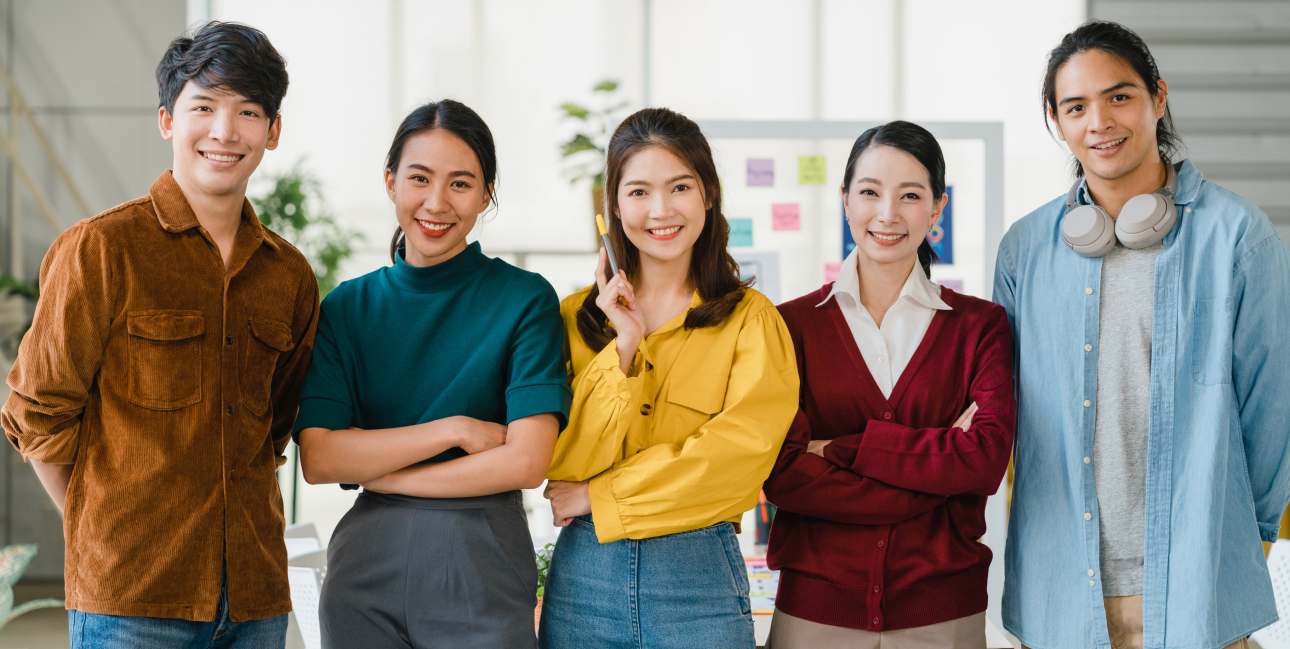
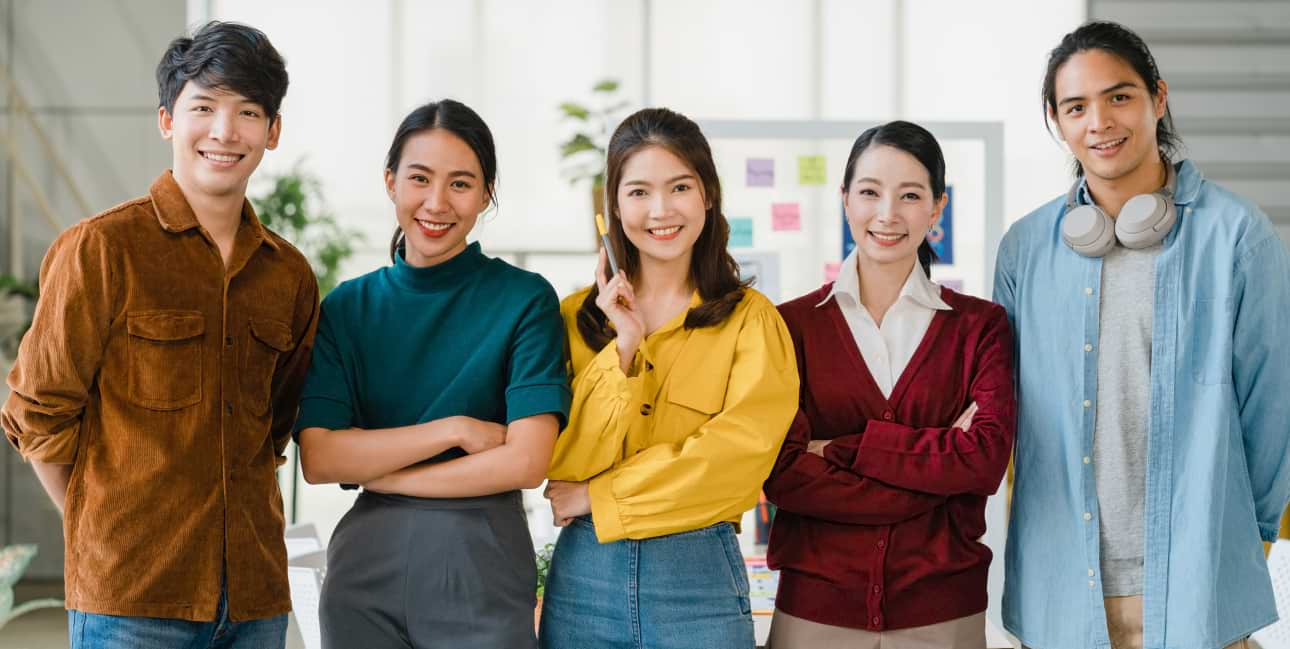
fix: optimize image

diff --git a/pages/index.html b/pages/index.html
@@ -101,14 +101,14 @@
                   <h6 class="item-service__subtitle">
                     Tempor incididunt ut labore et dolore magna aliqua.
                   </h6>
-                  <img src="../assets/images/floor.jpeg" alt="Floor" />
+                  <img src="../assets/images/floor.jpg" alt="Floor" />
                 </div>
                 <div class="services__item item-service _ibg">
                   <h4 class="item-service__title">Interior Design</h4>
                   <h6 class="item-service__subtitle">
                     Tempor incididunt ut labore et dolore magna aliqua.
                   </h6>
-                  <img src="../assets/images/interior.jpeg" alt="Interior" />
+                  <img src="../assets/images/interior.jpg" alt="Interior" />
                 </div>
                 <div class="services__item item-service _ibg">
                   <h4 class="item-service__title">Architecture Design</h4>
@@ -116,7 +116,7 @@
                     Tempor incididunt ut labore et dolore magna aliqua.
                   </h6>
                   <img
-                    src="../assets/images/achitechure.jpeg"
+                    src="../assets/images/achitechure.jpg"
                     alt="Achitechure"
                   />
                 </div>
@@ -126,7 +126,7 @@
                     Tempor incididunt ut labore et dolore magna aliqua.
                   </h6>
                   <img
-                    src="../assets/images/construction.jpeg"
+                    src="../assets/images/construction.jpg"
                     alt="Construction"
                   />
                 </div>
@@ -143,14 +143,14 @@
                   <h6 class="item-service__subtitle">
                     Tempor incididunt ut labore et dolore magna aliqua.
                   </h6>
-                  <img src="../assets/images/floor.jpeg" alt="Floor" />
+                  <img src="../assets/images/floor.jpg" alt="Floor" />
                 </div>
                 <div class="services__item_slider item-service _ibg">
                   <h4 class="item-service__title">Interior Design</h4>
                   <h6 class="item-service__subtitle">
                     Tempor incididunt ut labore et dolore magna aliqua.
                   </h6>
-                  <img src="../assets/images/interior.jpeg" alt="Interior" />
+                  <img src="../assets/images/interior.jpg" alt="Interior" />
                 </div>
                 <div class="services__item_slider item-service _ibg">
                   <h4 class="item-service__title">Architecture Design</h4>
@@ -158,7 +158,7 @@
                     Tempor incididunt ut labore et dolore magna aliqua.
                   </h6>
                   <img
-                    src="../assets/images/achitechure.jpeg"
+                    src="../assets/images/achitechure.jpg"
                     alt="Achitechure"
                   />
                 </div>
@@ -168,7 +168,7 @@
                     Tempor incididunt ut labore et dolore magna aliqua.
                   </h6>
                   <img
-                    src="../assets/images/construction.jpeg"
+                    src="../assets/images/construction.jpg"
                     alt="Construction"
                   />
                 </div>
@@ -205,7 +205,7 @@
                 <div class="about__image-block">
                   <div class="about__image _ibg">
                     <img
-                      src="../assets/images/building_left.jpeg"
+                      src="../assets/images/building_left.jpg"
                       alt="building"
                     />
                   </div>
@@ -222,13 +222,13 @@
               <div class="about__cards">
                 <div class="about__card _ibg">
                   <img
-                    src="../assets/images/building_first.jpeg"
+                    src="../assets/images/building_first.jpg"
                     alt="building"
                   />
                 </div>
                 <div class="about__card _ibg">
                   <img
-                    src="../assets/images/building_second.png"
+                    src="../assets/images/building_second.jpg"
                     alt="building"
                   />
                 </div>
@@ -261,28 +261,28 @@
             <div class="project-last__cards-wrapper">
               <div class="project-last__cards">
                 <div class="project-last__card card">
-                  <img src="../assets/images/project1.png" alt="project" />
+                  <img src="../assets/images/project1.jpg" alt="project" />
                 </div>
                 <div class="project-last__card card">
-                  <img src="../assets/images/project2.png" alt="project" />
+                  <img src="../assets/images/project2.jpg" alt="project" />
                 </div>
                 <div class="project-last__card card">
-                  <img src="../assets/images/project3.png" alt="project" />
+                  <img src="../assets/images/project3.jpg" alt="project" />
                 </div>
                 <div class="project-last__card card">
-                  <img src="../assets/images/project4.png" alt="project" />
+                  <img src="../assets/images/project4.jpg" alt="project" />
                 </div>
                 <div class="project-last__card card">
-                  <img src="../assets/images/project5.png" alt="project" />
+                  <img src="../assets/images/project5.jpg" alt="project" />
                 </div>
                 <div class="project-last__card card">
-                  <img src="../assets/images/project6.png" alt="project" />
+                  <img src="../assets/images/project6.jpg" alt="project" />
                 </div>
                 <div class="project-last__card card">
-                  <img src="../assets/images/project7.jpeg" alt="project" />
+                  <img src="../assets/images/project7.jpg" alt="project" />
                 </div>
                 <div class="project-last__card card">
-                  <img src="../assets/images/project8.png" alt="project" />
+                  <img src="../assets/images/project8.jpg" alt="project" />
                 </div>
               </div>
             </div>
@@ -412,7 +412,7 @@
                   </table>
                 </div>
                 <div class="project__image _ibg">
-                  <img src="../assets/images/house.png" alt="house" />
+                  <img src="../assets/images/house.jpg" alt="house" />
                 </div>
               </div>
             </div>
@@ -446,19 +446,19 @@
           <div class="image-block__wrapper">
             <div class="image-block__container">
               <div class="image-block__image">
-                <img src="../assets/images/bottom1.png" alt="interior" />
+                <img src="../assets/images/bottom1.jpg" alt="interior" />
               </div>
               <div class="image-block__image">
-                <img src="../assets/images/bottom2.png" alt="interior" />
+                <img src="../assets/images/bottom2.jpg" alt="interior" />
               </div>
               <div class="image-block__image">
-                <img src="../assets/images/bottom3.png" alt="interior" />
+                <img src="../assets/images/bottom3.jpg" alt="interior" />
               </div>
               <div class="image-block__image">
-                <img src="../assets/images/bottom4.png" alt="interior" />
+                <img src="../assets/images/bottom4.jpg" alt="interior" />
               </div>
               <div class="image-block__image">
-                <img src="../assets/images/bottom5.png" alt="interior" />
+                <img src="../assets/images/bottom5.jpg" alt="interior" />
               </div>
             </div>
           </div>
